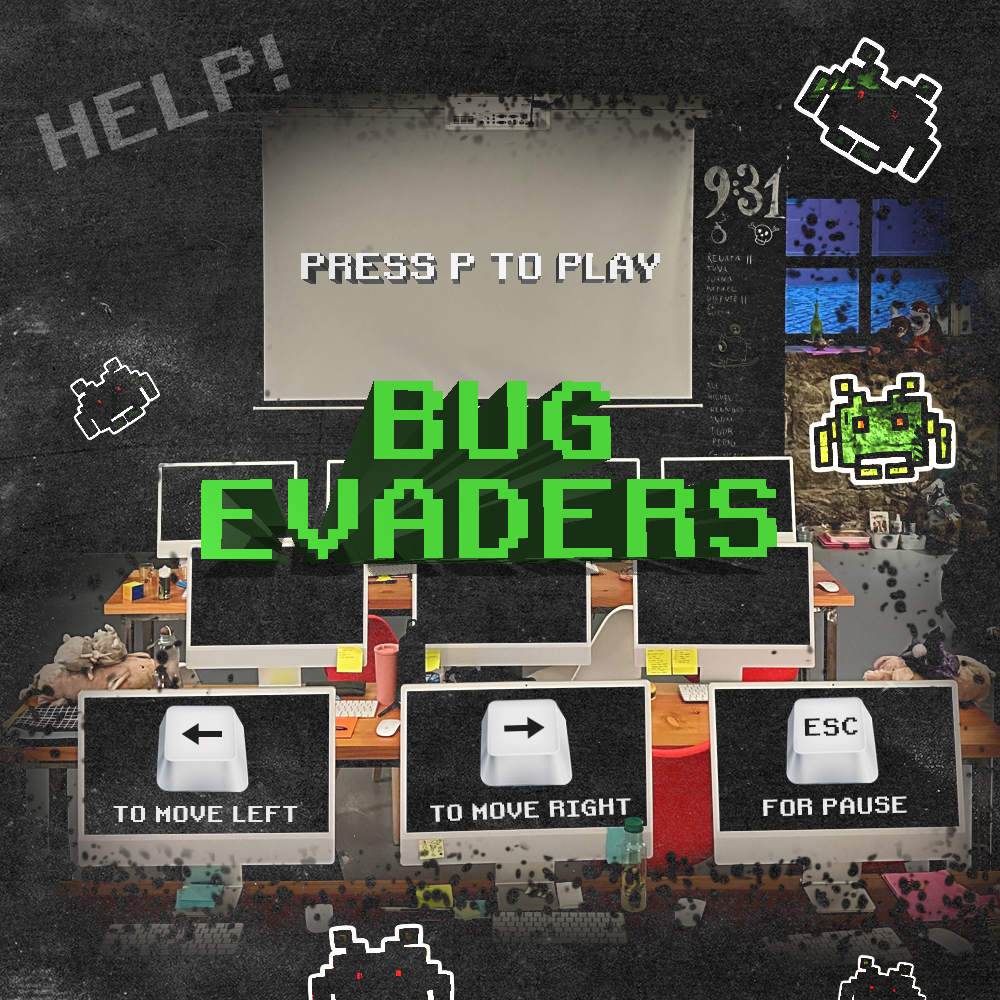
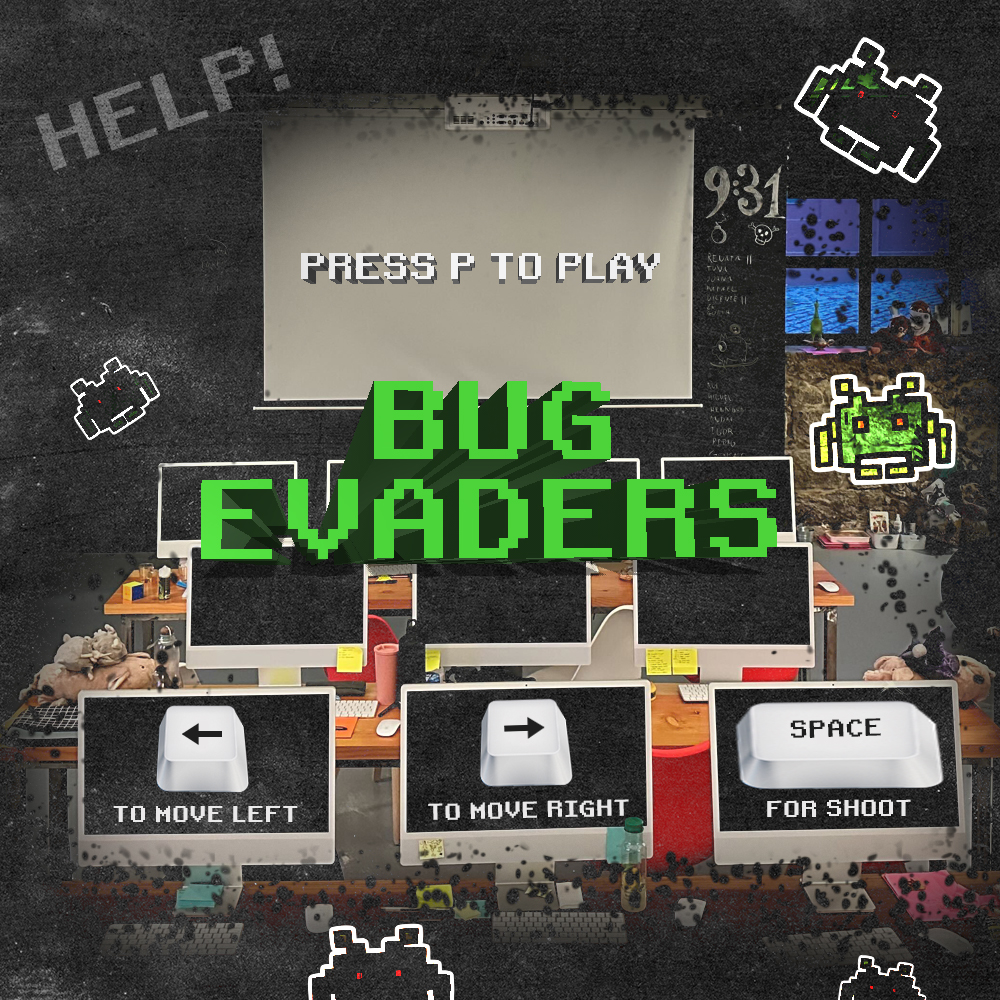
Initial screen

Changed region(s): [[0.713, 0.682, 0.961, 0.837], [0.434, 0.775, 0.62, 0.837]]

diff --git a/BugEvaders/src/io/codeforall/bootcamp/filhosdamain/sound/SoundManager.java b/BugEvaders/src/io/codeforall/bootcamp/filhosdamain/sound/SoundManager.java
@@ -1,0 +1,110 @@
+/*
+package io.codeforall.bootcamp.filhosdamain.sound;
+
+import javax.sound.sampled.*;
+import java.io.File;
+import java.io.IOException;
+
+public class SoundManager {
+
+    private Clip backgroundMusic;
+    private Clip attackSound;
+    private Clip p1VictorySound;
+    private Clip p2VictorySound;
+
+
+    public void startBackgroundMusic() {
+        try {
+            BackgroundMusic sounds = new BackgroundMusic();
+            Thread thread = new Thread(sounds);
+            thread.start();
+            thread.interrupt();
+        } catch (Exception ignored) {
+
+        }
+    }
+
+    public void playAttackSound() {
+        try {
+            AttackSound sounds1 = new AttackSound();
+            Thread thread1 = new Thread(sounds1);
+            thread1.start();
+            thread1.interrupt();
+        } catch (Exception ignored) {
+
+        }
+    }
+
+    public void playRound1Sound() {
+        try {
+            Round1 sounds1 = new Round1();
+            Thread thread1 = new Thread(sounds1);
+            thread1.start();
+            thread1.interrupt();
+        } catch (Exception e) {
+            System.out.println(e);
+        }
+    }
+
+    public void playRound2Sound() {
+        try {
+            flawlessVictorySound();
+            Thread.sleep(2000);
+            Round2 sounds1 = new Round2();
+            Thread thread1 = new Thread(sounds1);
+            thread1.start();
+            thread1.interrupt();
+        } catch (Exception ignored) {
+
+        }
+    }
+
+    public void playRound3Sound() {
+        try {
+            flawlessVictorySound();
+            Thread.sleep(2000);
+            Round3 sounds1 = new Round3();
+            Thread thread1 = new Thread(sounds1);
+            thread1.start();
+            thread1.interrupt();
+        } catch (Exception ignored) {
+
+        }
+    }
+
+
+    public void playP1VictorySound() {
+        try {
+            Gustavo sounds1 = new Gustavo();
+            Thread thread1 = new Thread(sounds1);
+            thread1.start();
+            thread1.interrupt();
+        } catch (Exception ignored) {
+
+        }
+    }
+    public void playP2VictorySound() {
+        try {
+            DeuCaquinha sounds1 = new DeuCaquinha();
+            Thread thread1 = new Thread(sounds1);
+            thread1.start();
+            thread1.interrupt();
+        } catch (Exception ignored) {
+
+        }
+    }
+
+
+    public void flawlessVictorySound() {
+        try {
+            VictorySound sounds1 = new VictorySound();
+            Thread thread1 = new Thread(sounds1);
+            thread1.start();
+            thread1.interrupt();
+        } catch (Exception ignored) {
+
+        }
+    }
+
+}
+*/

diff --git a/BugEvaders/src/io/codeforall/bootcamp/filhosdamain/sound/BackgroundMusic.java b/BugEvaders/src/io/codeforall/bootcamp/filhosdamain/sound/BackgroundMusic.java
@@ -1,0 +1,33 @@
+/*
+package io.codeforall.bootcamp.filhosdamain.sound;
+
+import javax.sound.sampled.*;
+import java.io.File;
+import java.io.IOException;
+
+public class BackgroundMusic implements Runnable{
+
+    private Clip backgroundMusic;
+
+    public BackgroundMusic() throws UnsupportedAudioFileException, IOException, LineUnavailableException {
+
+        AudioInputStream backgroundMusicStream = AudioSystem.getAudioInputStream(new File("resources/Imperial8bit.wav").getAbsoluteFile());
+        backgroundMusic = AudioSystem.getClip();
+        backgroundMusic.open(backgroundMusicStream);
+        FloatControl gainControl = (FloatControl) backgroundMusic.getControl(FloatControl.Type.MASTER_GAIN);
+        gainControl.setValue(-10.0f); // Reduce volume by 10 decibels.
+        backgroundMusic.loop(Clip.LOOP_CONTINUOUSLY);
+    }
+
+
+    @Override
+    public void run() {
+        backgroundMusic.start();
+        try{
+            Thread.sleep(1000000);
+        } catch (Exception e) {
+
+        }
+    }
+}
+*/
